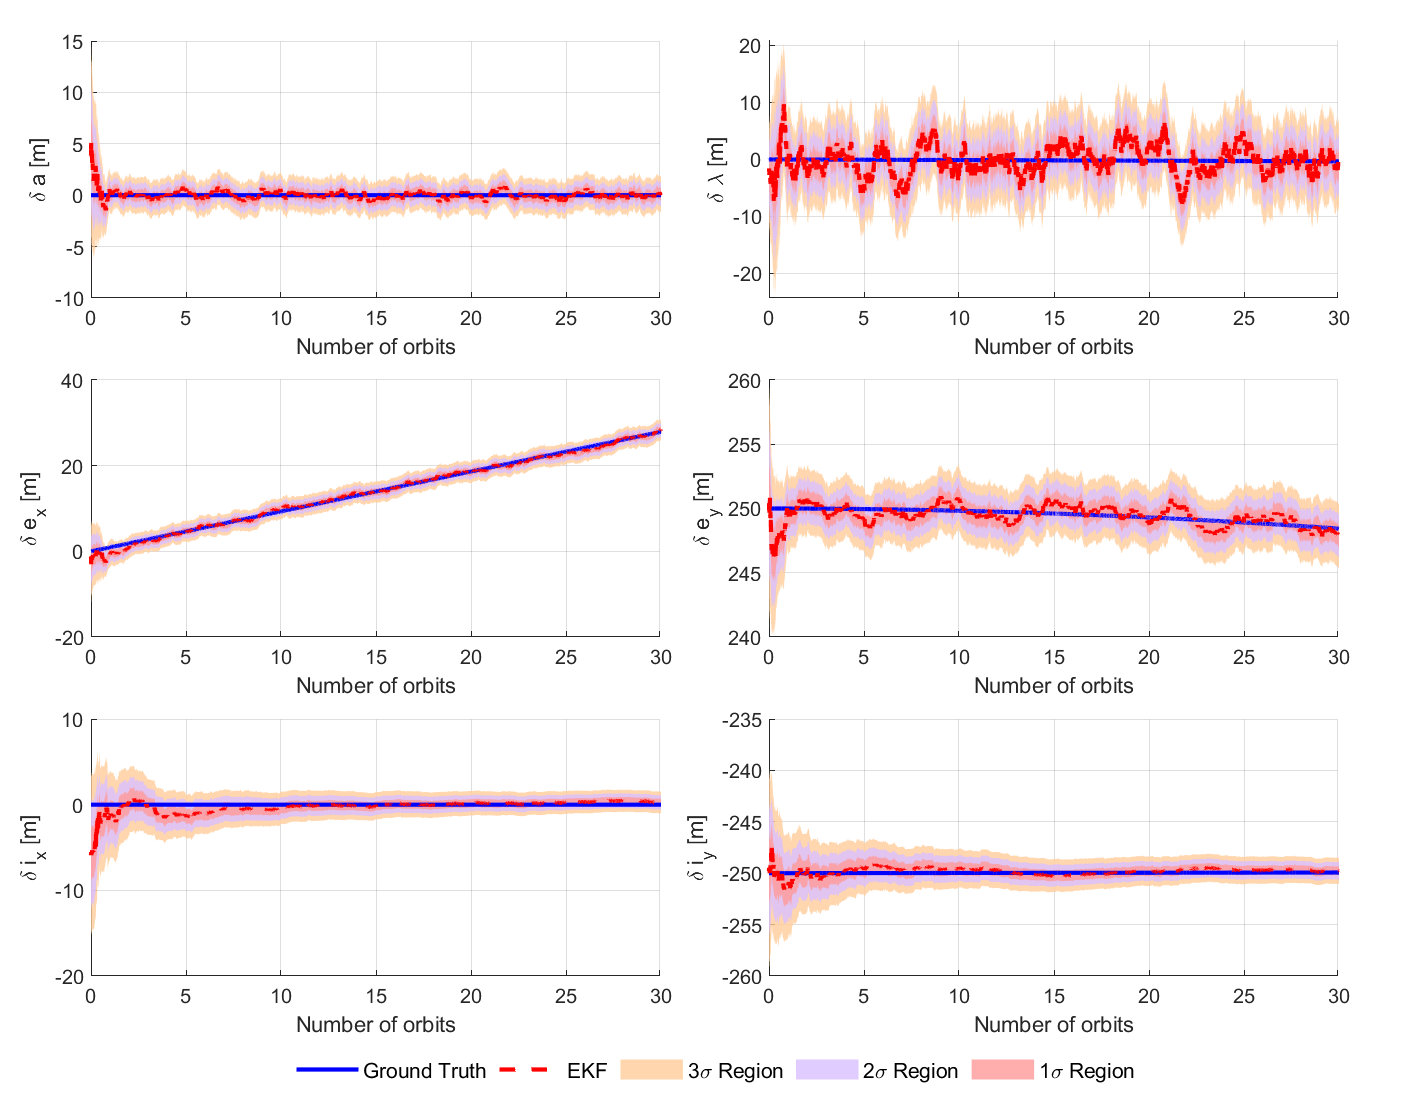
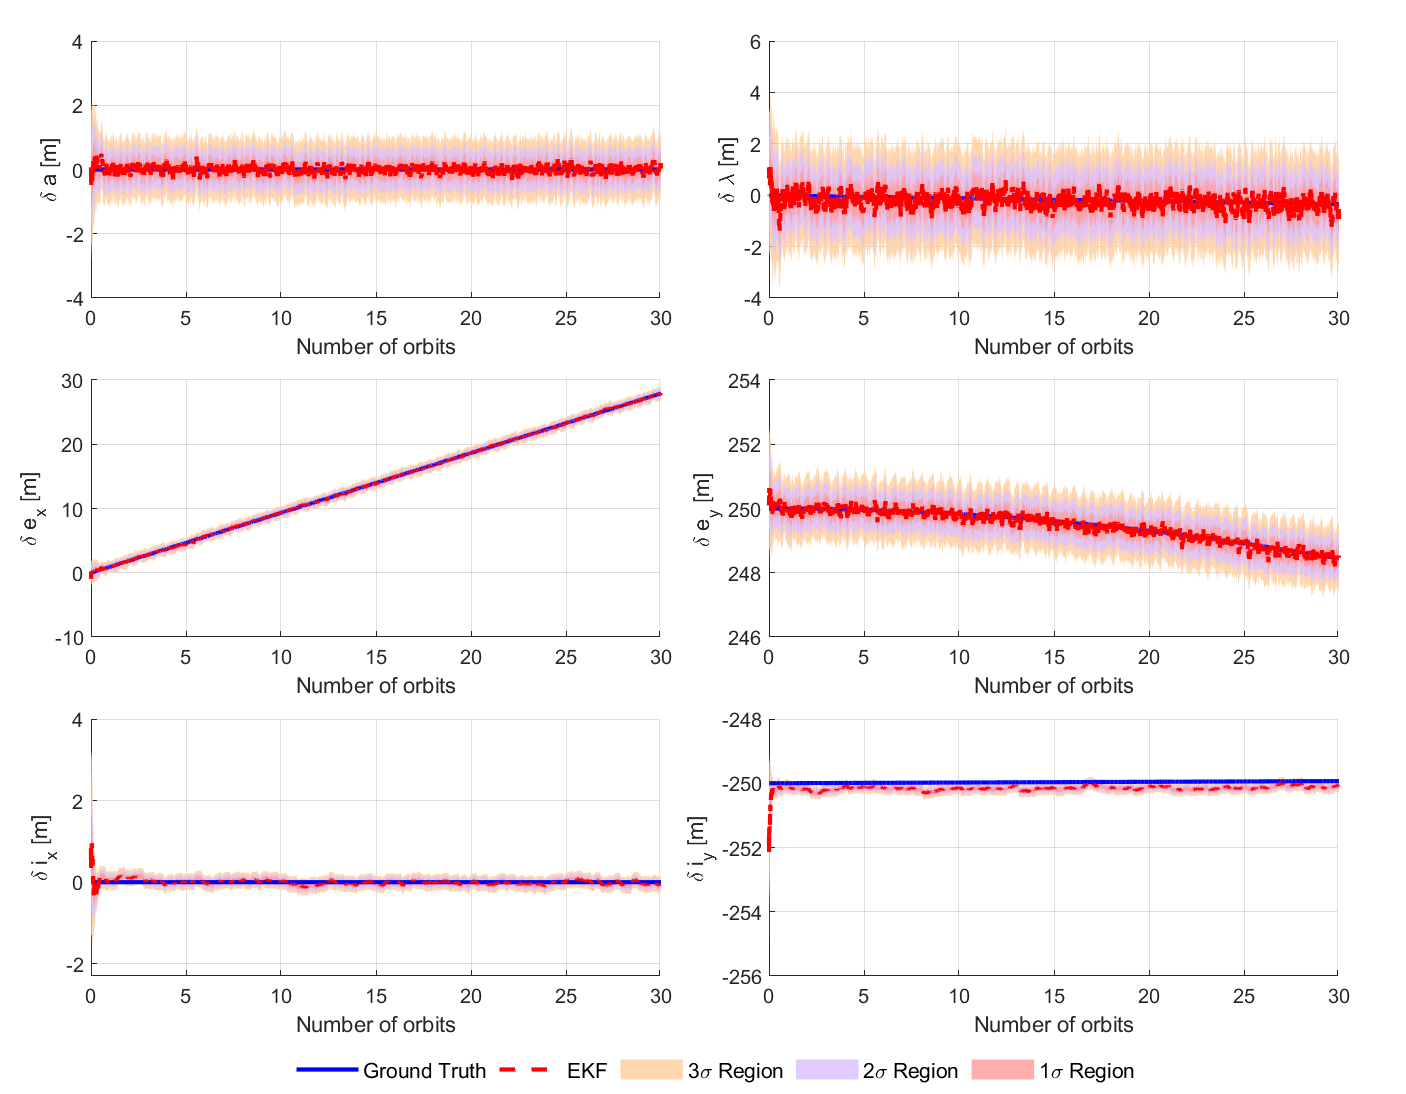
ps8 plots updated

diff --git a/sim/EKF_continuous_no_control.m b/sim/EKF_continuous_no_control.m
@@ -123,7 +123,7 @@ function EKF_continuous_no_control(SV1_OE_init, SV2_ROE_init, SV3_ROE_init, SV2_
 
     % Initial estimate and covariance for EKF (assuming perfect SV1
     % knowledge for now)
-    estimate_sigma = 0.1*eye(6);
+    estimate_sigma = (0.1)^2 *eye(6);
     %estimate_sigma(2,2) = 1e2; 
     estimate_noise = sqrtm(estimate_sigma)*randn(6,1);
     x_EKF_SV3_all(1,:) = SV3_ROE_init + 10*estimate_noise';
@@ -137,8 +137,8 @@ function EKF_continuous_no_control(SV1_OE_init, SV2_ROE_init, SV3_ROE_init, SV2_
     P_update_EKF_SV3 = squeeze(P_EKF_SV3_all(1,:,:));
 
     % Initial measurements and definition of noise for EKF
-    RTN_sigma = 0.001 * eye(3); % 1 m noise in each direction .000001
-    ECI_sigma = 0.1* eye(3); % 100 m noise in each direction .001 or 1
+    RTN_sigma = (0.001)^2 * eye(3); % 1 m noise in each direction .000001
+    ECI_sigma = (0.1)^2* eye(3); % 100 m noise in each direction .001 or 1
 
     [rho2, ~] = ECI2RTN_rel(SV1_state(1:3)', SV1_state(4:6)', SV2_state(1:3)', SV2_state(4:6)');
     SV2_RTN_pos = rho2';
@@ -166,10 +166,6 @@ function EKF_continuous_no_control(SV1_OE_init, SV2_ROE_init, SV3_ROE_init, SV2_
     % Process and measurement noise covariances
     % Q = 0.1*estimate_sigma; % similar to P_0 but much smaller
     Q = 1e-3*diag([1, 1, 1, 1, 0.01, 0.01]);
-    %Q(1,1) = 1e4;
-    %Q(2,2) = 1e3;
-    %Q(5,5) = 1e1;
-    %Q(6,6) = 1e1;
 
     % R assumes there is less noise than there actually is.
     % R = 1000000*blkdiag(RTN_sigma, ECI_sigma); % diagonal matrix with elements equal to the varianace of each measurement

diff --git a/sim/sim_main.m b/sim/sim_main.m
@@ -18,10 +18,10 @@ run_PS1 = false;
 run_PS2 = false;
 run_PS3 = false;
 run_PS4 = false;
-run_PS5 = true;
+run_PS5 = false;
 run_PS6 = false; 
 run_PS7 = false;
-run_PS8 = false;
+run_PS8 = true;
 run_PS9 = false;
 
 % Load SV1 information
